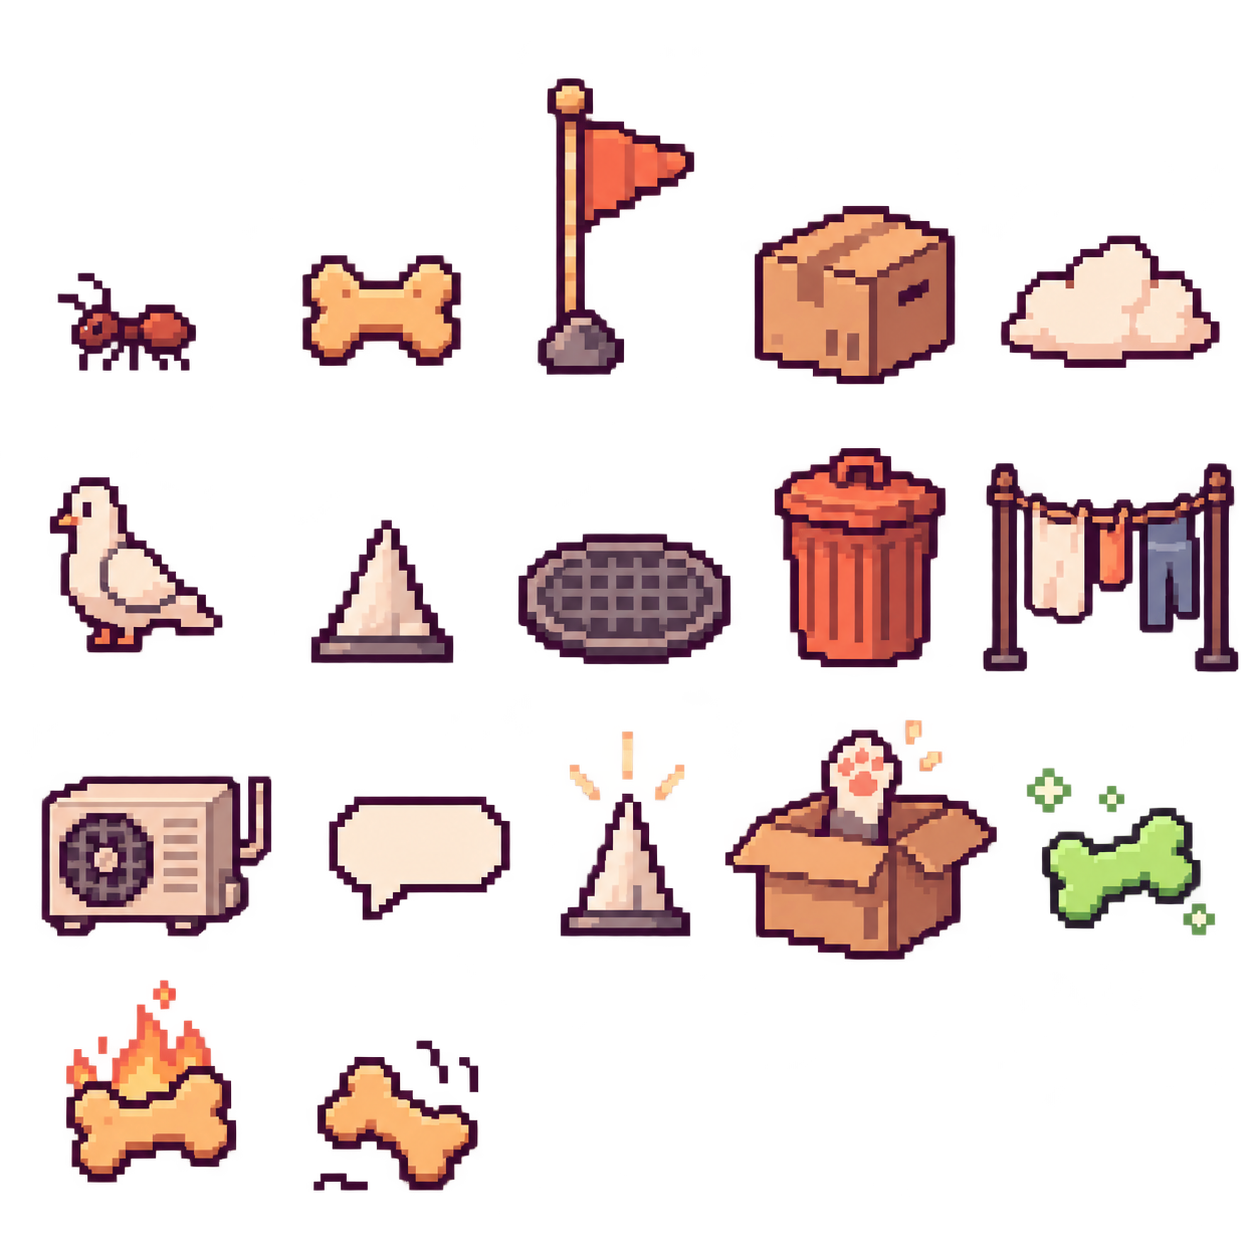
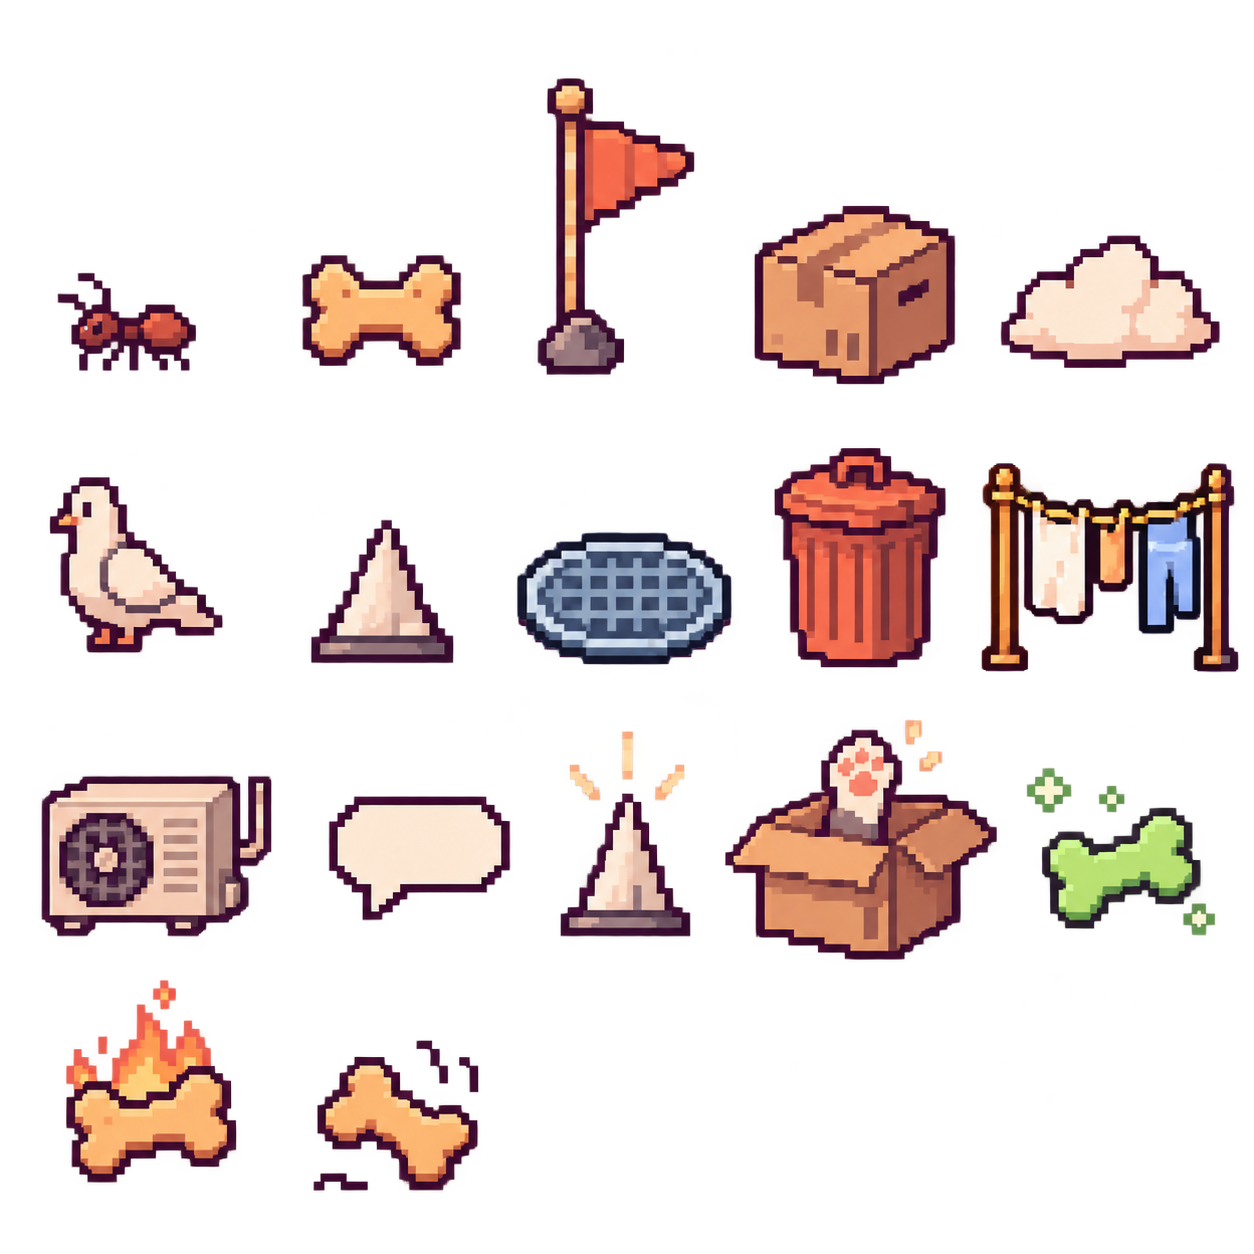
feat(art): 월드 1 낮 지붕과 삼색이 전투 그림 추가
Plan: 2026-09-29-world01-daylight-calico

Phase: P01-route-and-boss

Task: T01-daylight-and-boss-art

Changed region(s): [[0.7775, 0.3732, 0.9952, 0.5287], [0.4043, 0.4043, 0.5909, 0.5287]]

diff --git a/src/game/scenes/StageScene.ts b/src/game/scenes/StageScene.ts
@@ -9,6 +9,7 @@ import { GameEventBus } from "../bridge/GameEventBus";
 import { CameraDirector } from "../camera/CameraDirector";
 import { GameplayEventBus } from "../core/events";
 import { getStageDefinition, getWorldMapTheme } from "../data";
+import { getWorld01StageTheme } from "../data/worldMaps";
 import type { StageDefinition } from "../core/types";
 import type { EnemyDefinition } from "../core/contentTypes";
 import { MapDebugOverlay } from "../debug/MapDebugOverlay";
@@ -78,7 +79,7 @@ export class StageScene extends Phaser.Scene {
     const registeredProgress = this.registry.get("progressState") as ProgressState | undefined;
     this.progress = registeredProgress ?? createDefaultProgressState(data.playerName);
     if (data.playerName) this.progress.playerName = data.playerName;
-    const theme = getWorldMapTheme(stage.worldId);
+    const theme = getWorld01StageTheme(stage.id, getWorldMapTheme(stage.worldId));
     const seed = data.seed ?? 1;
     const sharedEventBus = this.registry.get("gameEventBus");
     this.persistenceEventBus = sharedEventBus instanceof GameEventBus

diff --git a/src/game/data/worldMaps.ts b/src/game/data/worldMaps.ts
@@ -9,7 +9,25 @@ import {
   NORMAL_MAP_SAFE_LENGTH,
   NORMAL_MAP_WIDTH,
 } from "../core/constants";
-import type { WorldId } from "../core/types";
+import type { StageId, WorldId } from "../core/types";
+
+export function getWorld01StageTheme(
+  stageId: StageId,
+  base: WorldMapThemeDefinition,
+): WorldMapThemeDefinition {
+  const midAssetKey = stageId === "world-01-stage-2"
+    ? "world-01-roof-day-mid"
+    : stageId === "world-01-stage-4"
+      ? "world-01-clothesline-day-mid"
+      : null;
+  if (!midAssetKey) return base;
+  return {
+    ...base,
+    layers: base.layers.map((layer) => layer.kind === "background-mid"
+      ? { ...layer, assetKey: midAssetKey }
+      : layer),
+  };
+}
 
 export const WORLD_MAP_THEMES: readonly WorldMapThemeDefinition[] = [
   createTheme(

diff --git a/.memory/phases/2026-09-29-world01-daylight-calico/P01-route-and-boss/phase.md b/.memory/phases/2026-09-29-world01-daylight-calico/P01-route-and-boss/phase.md
@@ -3,8 +3,8 @@
 ## Tasks
 | Task | Status | Summary | Blueprint |
 | :--- | :--- | :--- | :--- |
-| T01 | `pending` | 낮 지붕·빨랫줄과 삼색이/가시 PNG 자산 | [T01](./T01-daylight-and-boss-art.md) |
-| T02 | `pending` | 정적 장애물·열린 맨홀과 일반 4개 경로 재배치 | [T02](./T02-visible-route-and-pits.md) |
+| T01 | `done ✅` | 낮 지붕·빨랫줄과 삼색이/가시 PNG 자산 | [T01](./T01-daylight-and-boss-art.md) |
+| T02 | `in_progress 🔵` | 정적 장애물·열린 맨홀과 일반 4개 경로 재배치 | [T02](./T02-visible-route-and-pits.md) |
 | T03 | `pending` | 월드 1 진짜 체크포인트 2곳과 맵 검증 | [T03](./T03-two-real-checkpoints.md) |
 | T04 | `pending` | 삼색이 아레나와 첫 조우 대화 | [T04](./T04-calico-intro.md) |
 | T05 | `pending` | 슬리퍼·생선 가시·방패·강아지·체력 하트 보스전 | [T05](./T05-calico-combat.md) |
@@ -12,7 +12,7 @@
 | T07 | `pending` | 월드 1 연속 진행·보상 저장·전체 플레이테스트 | [T07](./T07-progression-and-verification.md) |
 
 ## Progress
-- done: 0/7 (active: T01)
+- done: 1/7 (active: T02)
 
 ## Gate
 - T07 자동 검사와 실제 플레이테스트 결과를 기록한다. 월드 2의 새 아트·맵·보스 구현은 별도 Phase에서 이어가며, 클리어 씬의 `NEXT STAGE ->` 클릭으로만 월드 2 첫 스테이지에 진입한다.

diff --git a/.memory/current.md b/.memory/current.md
@@ -7,10 +7,10 @@
 [P01 월드 1 낮 경로와 삼색이 전투](./phases/2026-09-29-world01-daylight-calico/P01-route-and-boss/phase.md)
 
 ## Active Task
-[T01 낮 지붕·빨랫줄과 보스 PNG 자산](./phases/2026-09-29-world01-daylight-calico/P01-route-and-boss/T01-daylight-and-boss-art.md)
+[T02 정적 장애물·열린 맨홀과 일반 4개 경로 재배치](./phases/2026-09-29-world01-daylight-calico/P01-route-and-boss/T02-visible-route-and-pits.md)
 
 ## Status
-- 새 계획 T01 구현 시작 준비 완료. 구현 코드는 아직 수정하지 않았습니다.
+- T01 낮 배경과 보스 PNG 자산 구현 및 타입 검사·린트·빌드 완료.
 
 ## Next Step (IMPORTANT)
-T01 청사진을 읽고 월드 1 낮 PNG·삼색이/생선 가시 에셋 및 로딩 경로 구현을 시작합니다. T01 검증·커밋 후 T02로 전진합니다.
+T02 청사진에 따라 정적 장애물과 열린 맨홀을 구현하고 일반 4개 경로를 재배치합니다.

diff --git a/.memory/phases/2026-09-29-world01-daylight-calico/P01-route-and-boss/T01-daylight-and-boss-art.md b/.memory/phases/2026-09-29-world01-daylight-calico/P01-route-and-boss/T01-daylight-and-boss-art.md
@@ -1,6 +1,6 @@
 # Task: T01 낮 지붕·빨랫줄과 보스 PNG 자산
 
-## Status: pending
+## Status: done
 
 ## Goal
 2·4단계에 실제로 표시되는 낮 지붕·빨랫줄 PNG를 만들고, 정지 갈매기·열린 맨홀·삼색이·생선 가시·강아지 무리·코기 얼굴 이미지를 게임 로더에 등록한다. 그림이 제작만 되고 화면에서 쓰이지 않는 상태를 막는다.
@@ -96,6 +96,6 @@ Task: T01-daylight-and-boss-art
 ```
 
 ## Progress
-- [ ] 구현 완료
-- [ ] 검증 통과
-- commit: pending
+- [x] 구현 완료
+- [x] 검증 통과 (`npx.cmd tsc --noEmit`, `npm.cmd run lint`, `npm.cmd run build`)
+- commit: T01 한국어 커밋
